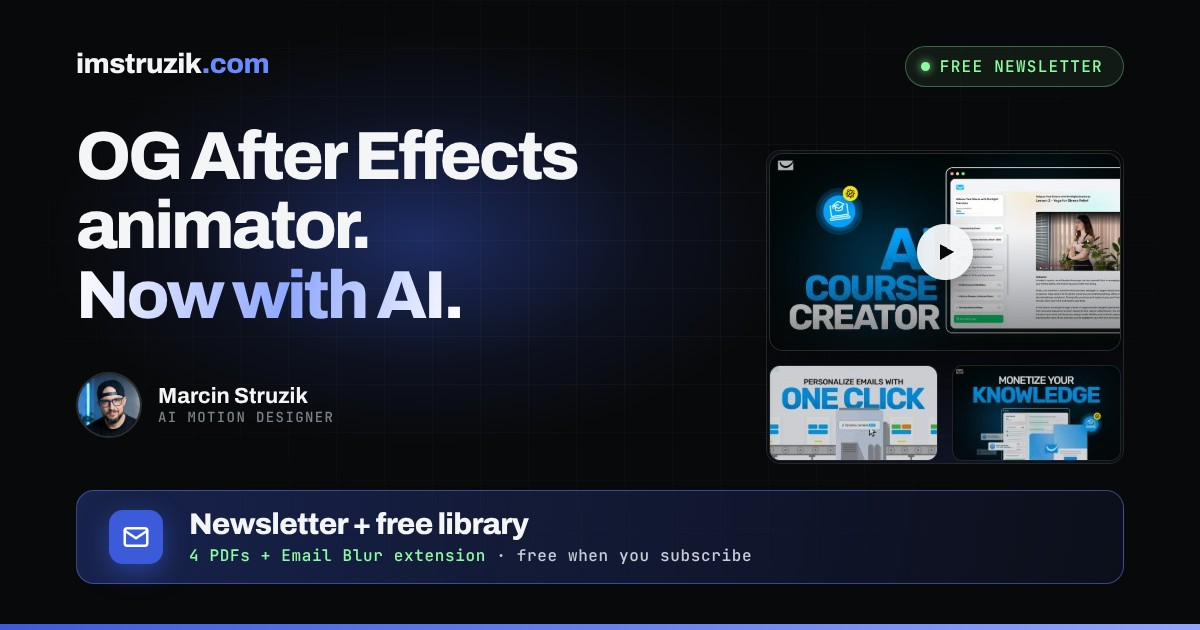
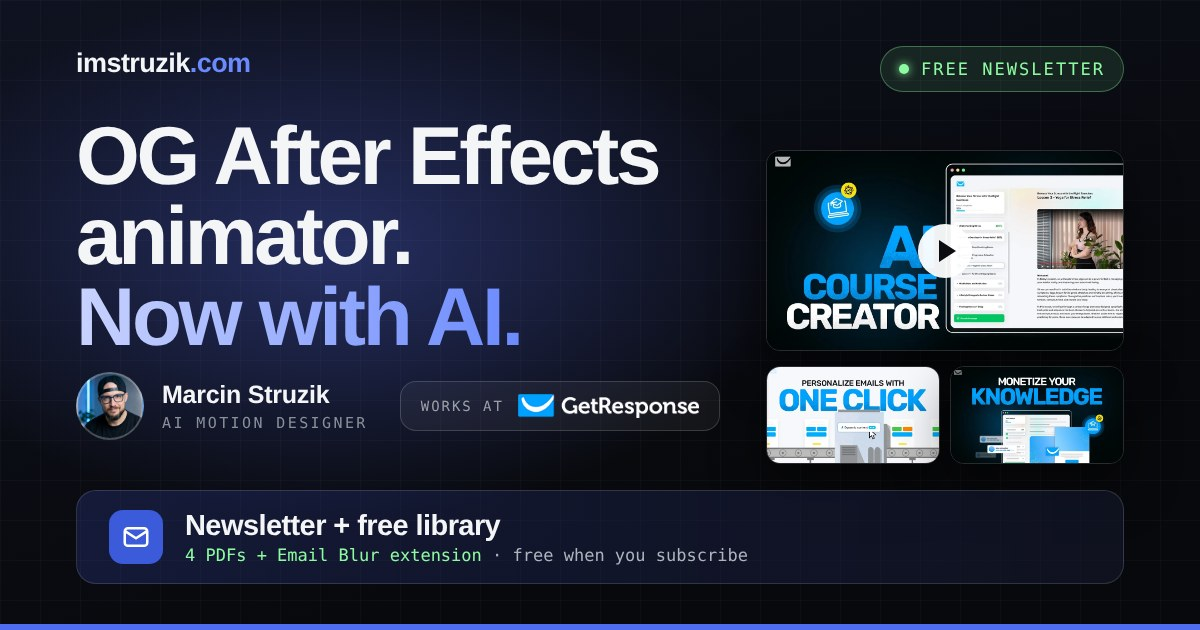
OG: GetResponse on the share card, title and description (#35)
- og.jpg redone with a 'Works at GetResponse' badge (cache bust ?v=4 on all pages using it).
- Title and description say Marcin works at GetResponse.

Claude-Session: https://claude.ai/code/session_012vhjrfXPcA42wtuhmMciLG

diff --git a/index.html b/index.html
@@ -3,8 +3,8 @@
 <head>
 <meta charset="utf-8">
 <meta name="viewport" content="width=device-width, initial-scale=1">
-<title>Marcin Struzik — AI Motion Designer &amp; SaaS Product Video</title>
-<meta name="description" content="Marcin Struzik: AI motion designer, 14+ years in SaaS product video. OG After Effects animator now blending keyframes with AI. Free resources + newsletter.">
+<title>Marcin Struzik: AI Motion Designer at GetResponse</title>
+<meta name="description" content="Motion designer at GetResponse. 14+ years in SaaS product video. OG After Effects animator now blending keyframes with AI. Free resources + newsletter.">
 <link rel="canonical" href="https://imstruzik.com/">
 <meta name="robots" content="index, follow, max-image-preview:large, max-snippet:-1, max-video-preview:-1">
 <script src="/assets/analytics.js"></script>
@@ -15,16 +15,16 @@
 <meta property="og:type" content="website">
 <meta property="og:url" content="https://imstruzik.com/">
 <meta property="og:site_name" content="imstruzik.com">
-<meta property="og:title" content="Marcin Struzik — AI Motion Designer &amp; SaaS Product Video">
-<meta property="og:description" content="Marcin Struzik: AI motion designer, 14+ years in SaaS product video. OG After Effects animator now blending keyframes with AI. Free resources + newsletter.">
-<meta property="og:image" content="https://imstruzik.com/og.jpg?v=3">
+<meta property="og:title" content="Marcin Struzik: AI Motion Designer at GetResponse">
+<meta property="og:description" content="Motion designer at GetResponse. 14+ years in SaaS product video. OG After Effects animator now blending keyframes with AI. Free resources + newsletter.">
+<meta property="og:image" content="https://imstruzik.com/og.jpg?v=4">
 <meta property="og:image:width" content="1200">
 <meta property="og:image:height" content="630">
 
 <meta name="twitter:card" content="summary_large_image">
-<meta name="twitter:title" content="Marcin Struzik — AI Motion Designer &amp; SaaS Product Video">
-<meta name="twitter:description" content="Marcin Struzik: AI motion designer, 14+ years in SaaS product video. OG After Effects animator now blending keyframes with AI. Free resources + newsletter.">
-<meta name="twitter:image" content="https://imstruzik.com/og.jpg?v=3">
+<meta name="twitter:title" content="Marcin Struzik: AI Motion Designer at GetResponse">
+<meta name="twitter:description" content="Motion designer at GetResponse. 14+ years in SaaS product video. OG After Effects animator now blending keyframes with AI. Free resources + newsletter.">
+<meta name="twitter:image" content="https://imstruzik.com/og.jpg?v=4">
 
 <link rel="icon" type="image/png" href="/favicon.png">
 <link rel="apple-touch-icon" href="/favicon.png">

diff --git a/downloads/index.html b/downloads/index.html
@@ -17,14 +17,14 @@
 <meta property="og:site_name" content="imstruzik.com">
 <meta property="og:title" content="Free Downloads for Video Creators | Marcin Struzik">
 <meta property="og:description" content="Free templates, prompt packs, checklists and a browser extension Marcin Struzik built for his own SaaS video work. One signup, everything unlocked.">
-<meta property="og:image" content="https://imstruzik.com/og.jpg?v=3">
+<meta property="og:image" content="https://imstruzik.com/og.jpg?v=4">
 <meta property="og:image:width" content="1200">
 <meta property="og:image:height" content="630">
 
 <meta name="twitter:card" content="summary_large_image">
 <meta name="twitter:title" content="Free Downloads for Video Creators | Marcin Struzik">
 <meta name="twitter:description" content="Free templates, prompt packs, checklists and a browser extension Marcin Struzik built for his own SaaS video work. One signup, everything unlocked.">
-<meta name="twitter:image" content="https://imstruzik.com/og.jpg?v=3">
+<meta name="twitter:image" content="https://imstruzik.com/og.jpg?v=4">
 
 <link rel="icon" type="image/png" href="/favicon.png">
 <link rel="apple-touch-icon" href="/favicon.png">

diff --git a/notes/index.html b/notes/index.html
@@ -17,14 +17,14 @@
 <meta property="og:site_name" content="imstruzik.com">
 <meta property="og:title" content="The AI Cut &mdash; How I Work with AI | Marcin Struzik">
 <meta property="og:description" content="Every note Marcin Struzik has written on using AI in SaaS product video: scripting, editing, free tools, and the tools worth keeping.">
-<meta property="og:image" content="https://imstruzik.com/og.jpg?v=3">
+<meta property="og:image" content="https://imstruzik.com/og.jpg?v=4">
 <meta property="og:image:width" content="1200">
 <meta property="og:image:height" content="630">
 
 <meta name="twitter:card" content="summary_large_image">
 <meta name="twitter:title" content="The AI Cut &mdash; How I Work with AI | Marcin Struzik">
 <meta name="twitter:description" content="Every note Marcin Struzik has written on using AI in SaaS product video: scripting, editing, free tools, and the tools worth keeping.">
-<meta name="twitter:image" content="https://imstruzik.com/og.jpg?v=3">
+<meta name="twitter:image" content="https://imstruzik.com/og.jpg?v=4">
 
 <link rel="icon" type="image/png" href="/favicon.png">
 <link rel="apple-touch-icon" href="/favicon.png">

diff --git a/privacy/index.html b/privacy/index.html
@@ -17,14 +17,14 @@
 <meta property="og:site_name" content="imstruzik.com">
 <meta property="og:title" content="Privacy Policy">
 <meta property="og:description" content="How imstruzik.com handles your data: the newsletter, cookie-free analytics, embedded videos and what stays only in your browser.">
-<meta property="og:image" content="https://imstruzik.com/og.jpg?v=3">
+<meta property="og:image" content="https://imstruzik.com/og.jpg?v=4">
 <meta property="og:image:width" content="1200">
 <meta property="og:image:height" content="630">
 
 <meta name="twitter:card" content="summary_large_image">
 <meta name="twitter:title" content="Privacy Policy">
 <meta name="twitter:description" content="How imstruzik.com handles your data: the newsletter, cookie-free analytics, embedded videos and what stays only in your browser.">
-<meta name="twitter:image" content="https://imstruzik.com/og.jpg?v=3">
+<meta name="twitter:image" content="https://imstruzik.com/og.jpg?v=4">
 
 <script type="application/ld+json">
 {

diff --git a/uses/index.html b/uses/index.html
@@ -17,14 +17,14 @@
 <meta property="og:site_name" content="imstruzik.com">
 <meta property="og:title" content="What I Use">
 <meta property="og:description" content="The tools I use for SaaS video work and recommend, with affiliate links clearly marked.">
-<meta property="og:image" content="https://imstruzik.com/og.jpg?v=3">
+<meta property="og:image" content="https://imstruzik.com/og.jpg?v=4">
 <meta property="og:image:width" content="1200">
 <meta property="og:image:height" content="630">
 
 <meta name="twitter:card" content="summary_large_image">
 <meta name="twitter:title" content="What I Use">
 <meta name="twitter:description" content="The tools I use for SaaS video work and recommend, with affiliate links clearly marked.">
-<meta name="twitter:image" content="https://imstruzik.com/og.jpg?v=3">
+<meta name="twitter:image" content="https://imstruzik.com/og.jpg?v=4">
 
 <script type="application/ld+json">
 {
